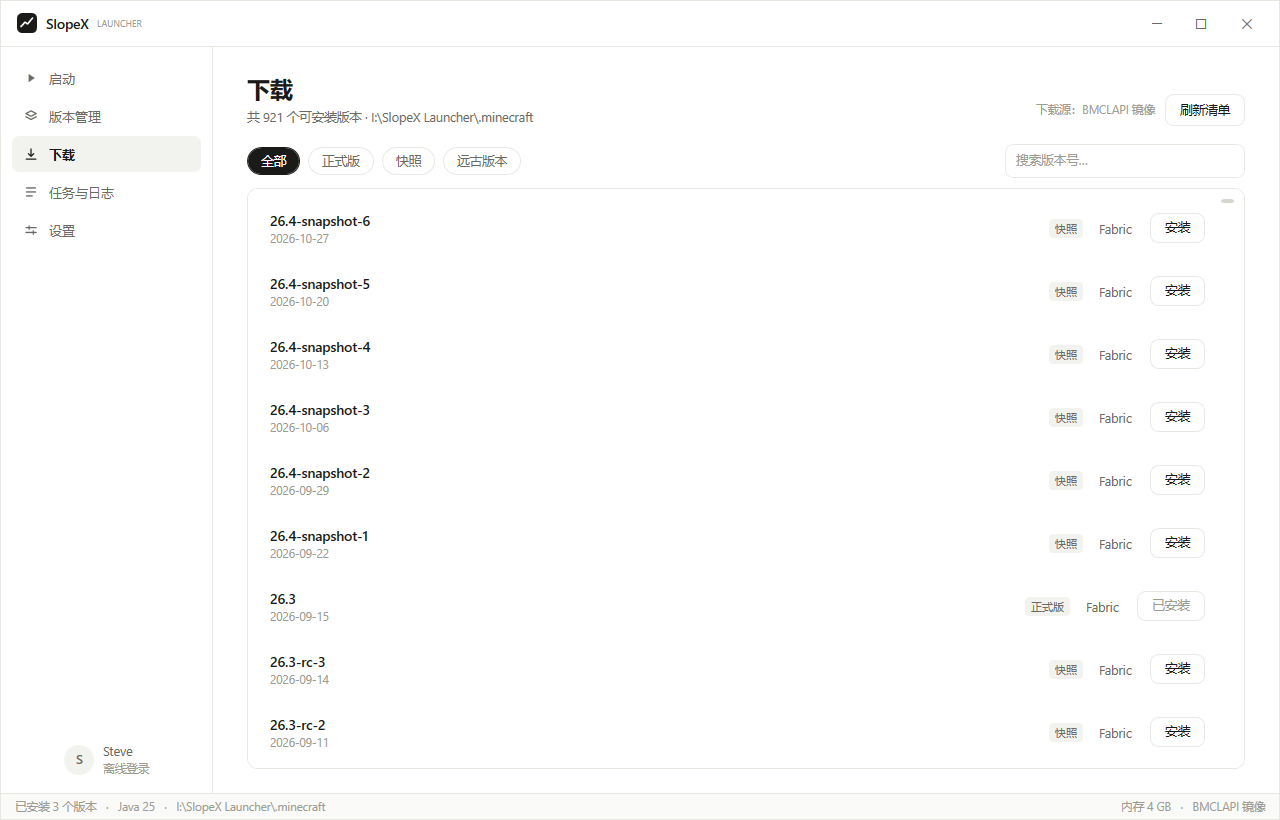
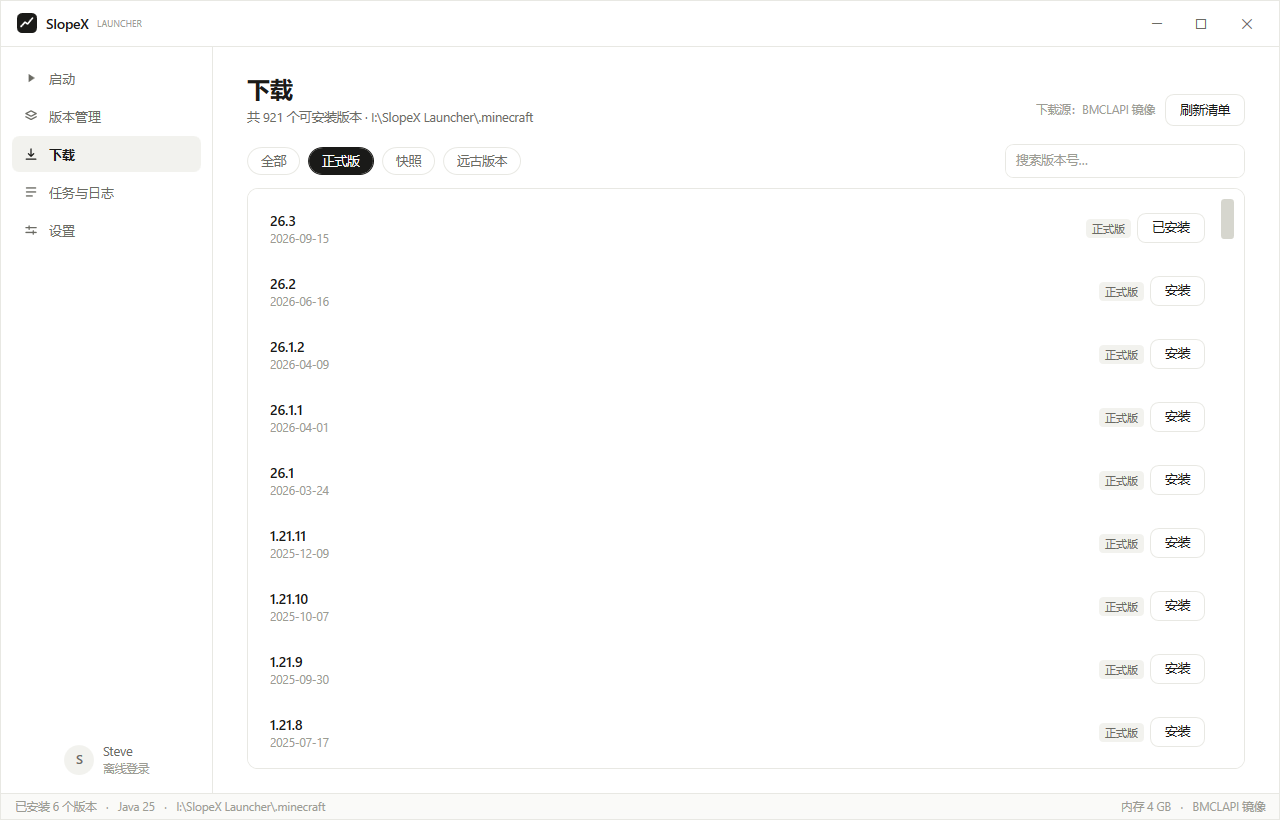
feat(download): 默认筛选正式版
- ChipRelease 默认选中，_filter 初值改为 release
- 快照与远古版本改为主动切换，避免首屏被 26.4-snapshot-* 占满
- 更新 download.png

diff --git a/src/SlopeX/Pages/PageDownload.xaml b/src/SlopeX/Pages/PageDownload.xaml
@@ -28,9 +28,9 @@
         <Grid Grid.Row="1" Margin="0,0,0,10">
             <StackPanel Orientation="Horizontal" HorizontalAlignment="Left">
                 <ToggleButton x:Name="ChipAll" Style="{StaticResource Chip}" Content="全部" Tag="all"
-                              IsChecked="True" Click="Chip_Click"/>
-                <ToggleButton x:Name="ChipRelease" Style="{StaticResource Chip}" Content="正式版" Tag="release"
                               Click="Chip_Click"/>
+                <ToggleButton x:Name="ChipRelease" Style="{StaticResource Chip}" Content="正式版" Tag="release"
+                              IsChecked="True" Click="Chip_Click"/>
                 <ToggleButton x:Name="ChipSnapshot" Style="{StaticResource Chip}" Content="快照" Tag="snapshot"
                               Click="Chip_Click"/>
                 <ToggleButton x:Name="ChipOld" Style="{StaticResource Chip}" Content="远古版本" Tag="old"

diff --git a/src/SlopeX/Pages/PageDownload.xaml.cs b/src/SlopeX/Pages/PageDownload.xaml.cs
@@ -16,7 +16,9 @@ namespace SlopeX.Pages
     public partial class PageDownload : UserControl, ILauncherPage
     {
         private List<VersionSummary> _all = new List<VersionSummary>();
-        private string _filter = "all";
+
+        // 默认只看正式版：快照和远古版本是少数场景，别让它们占满首屏
+        private string _filter = "release";
         private bool _loaded;
 
         public PageDownload()
